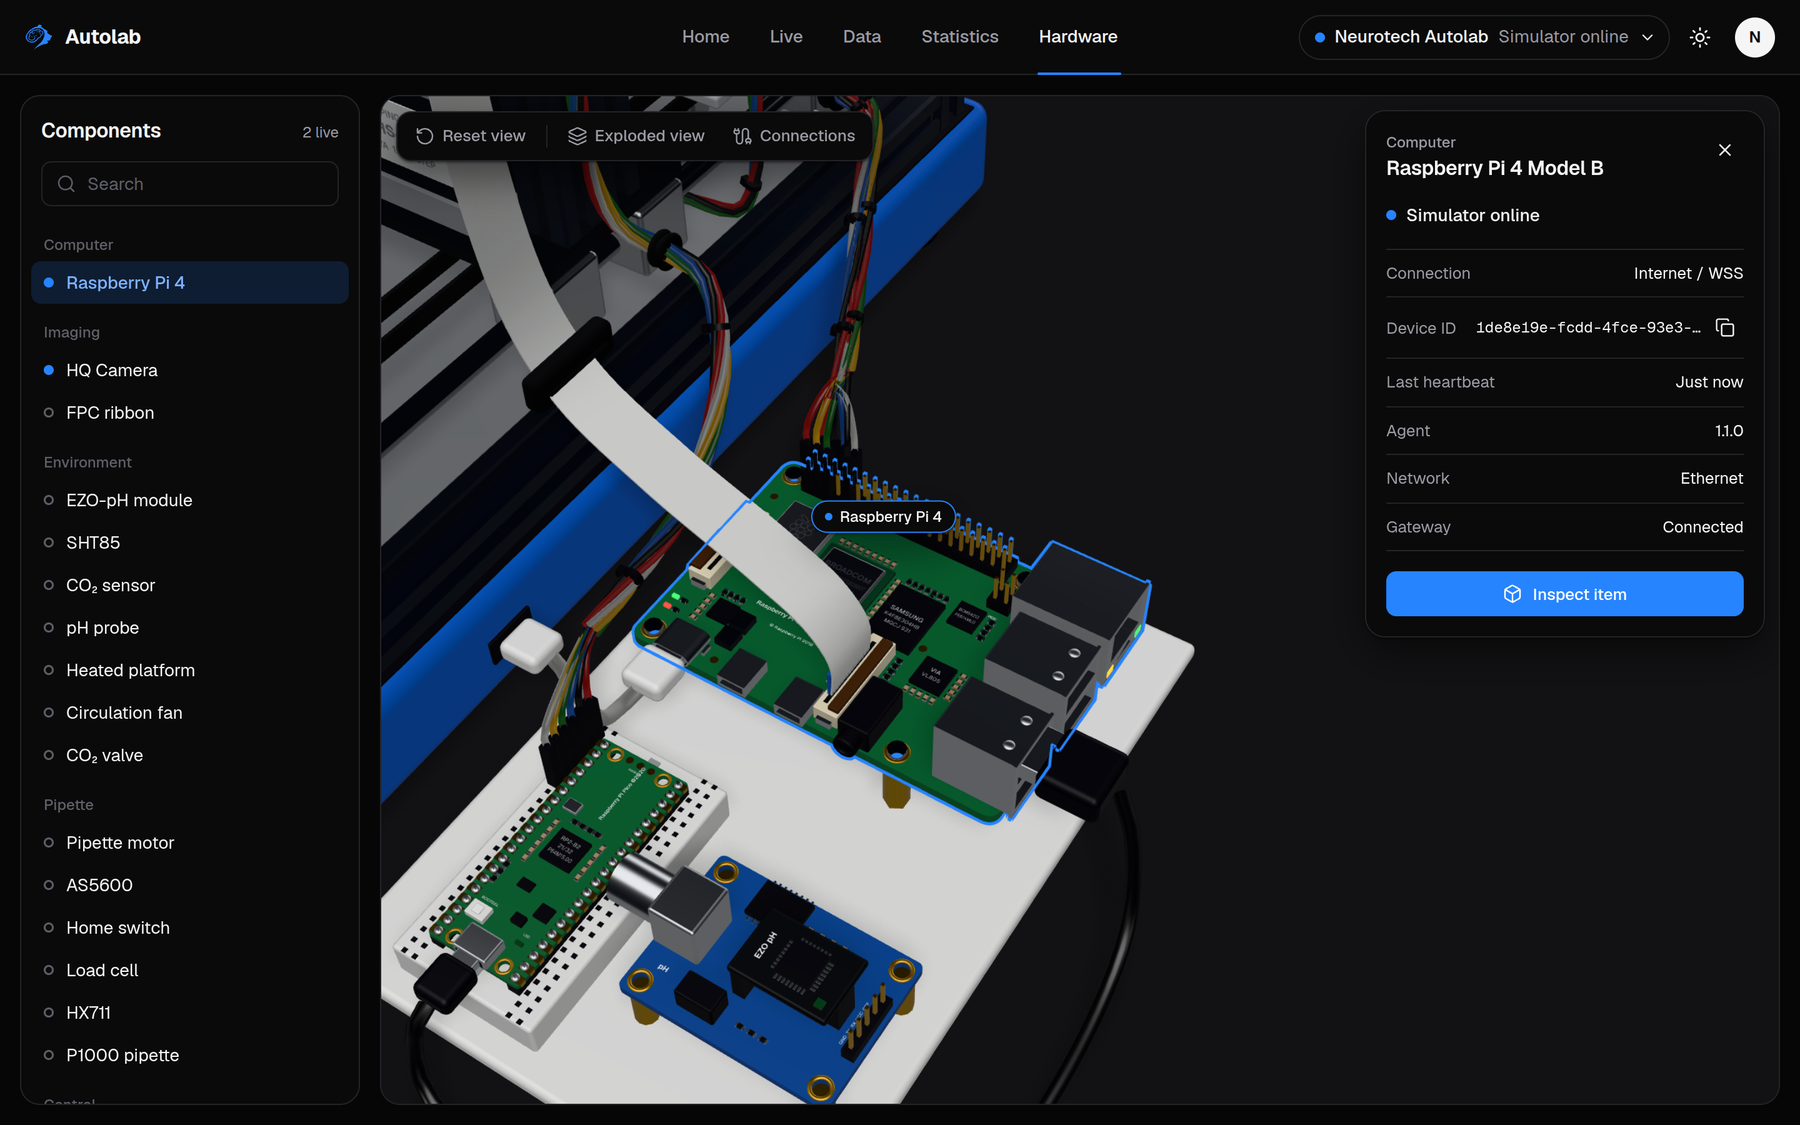
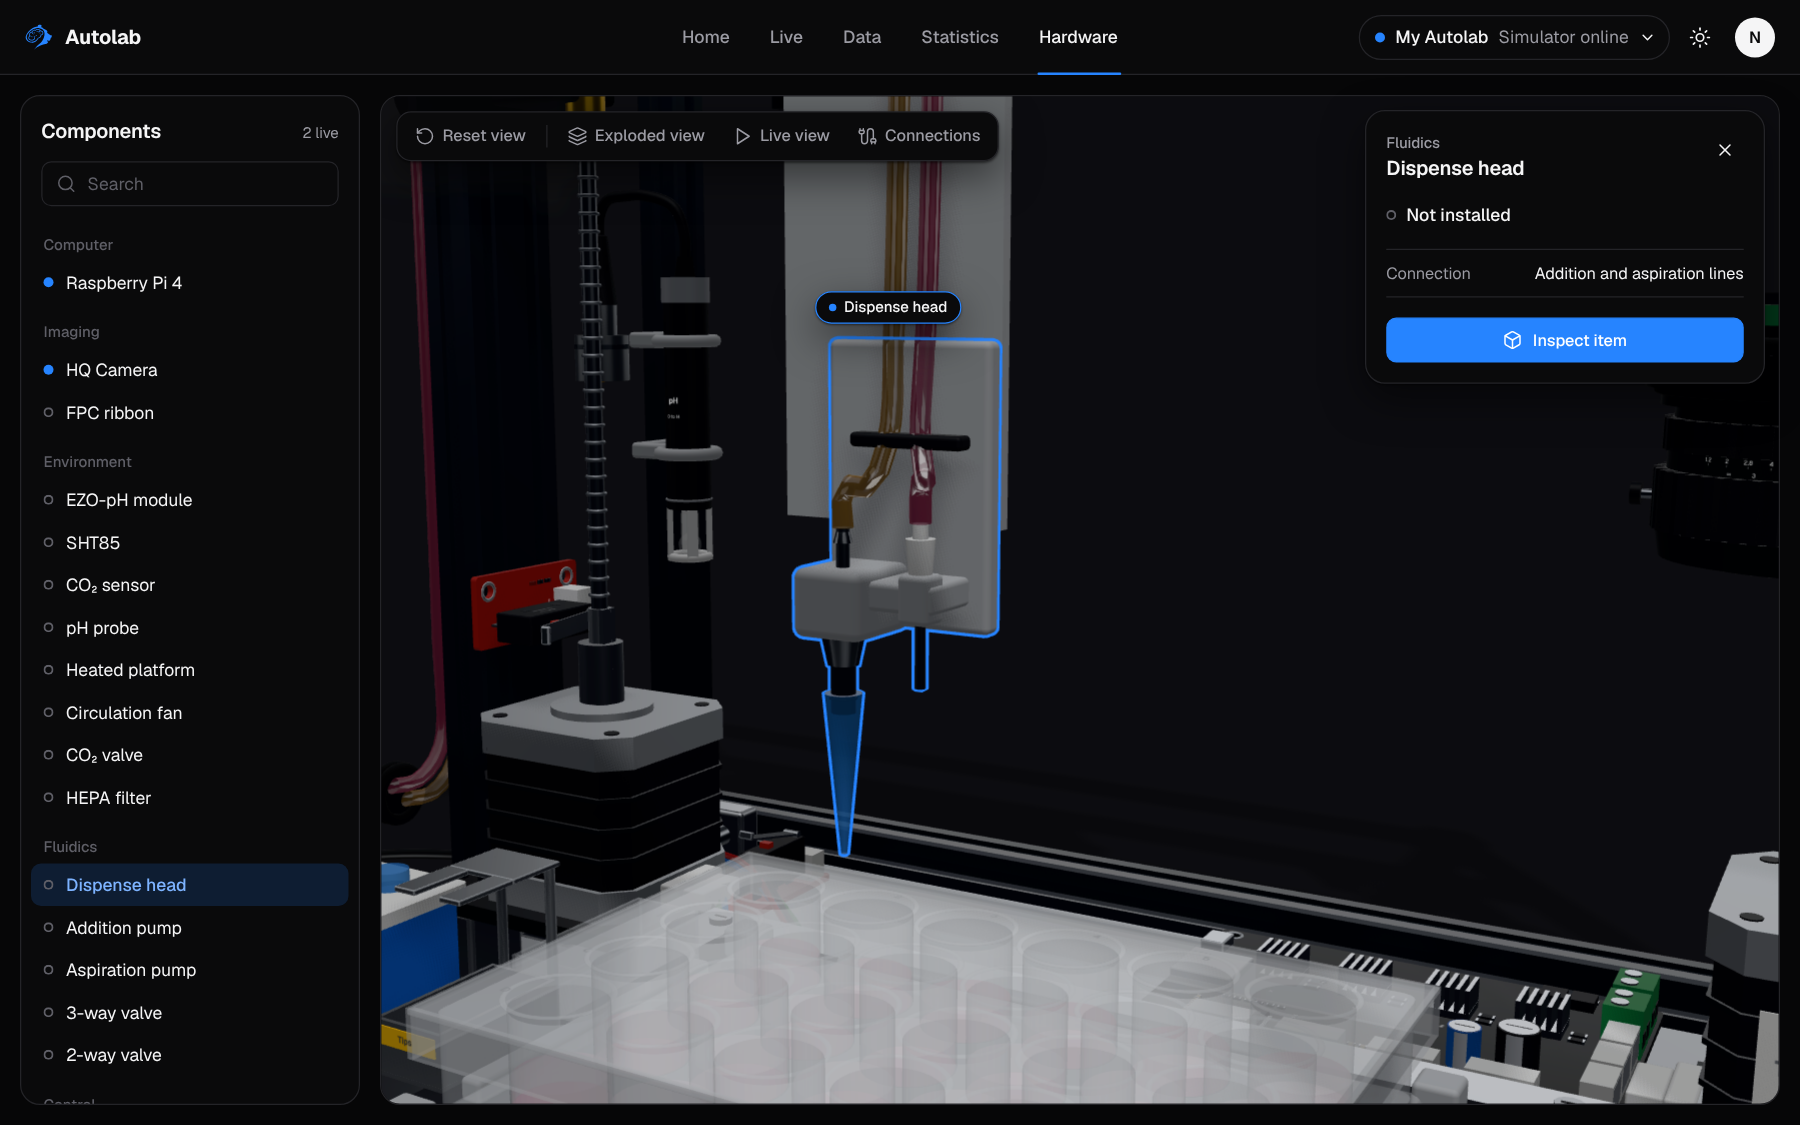
Describe the pump fluidics and enclosure upgrade in the docs
The README, the architecture notes and the 3D model guide described the pipette. They now cover the dispense head, the two pumps and their valves, the HEPA unit, the new demo and where the firmware lives, and link the firmware guide. The Home and Hardware screenshots are retaken with the new machine.

Claude-Session: https://claude.ai/code/session_019cGjL1GYCLbSfZEehKf6yM

diff --git a/docs/digital-twin.md b/docs/digital-twin.md
@@ -8,33 +8,51 @@ The web app draws the whole Autolab in 3D with Three.js, React Three Fiber and D
 - **Hardware** is the full workspace. The machine stands still here so every part can be inspected, until you press **Live view**.
 - The **Connect device** wizard reuses the same models to show where the camera ribbon goes, how the Pi is powered and, at the end, the assembled machine.
 
+## What's on the machine
+
+The model follows the system design sketch, the fluidics sketch and the enclosure plan:
+
+- **The enclosure**: a black V-slot frame on the blue base, closed by clear acrylic panels on the back, left, right and roof and the gasketed front door. A **HEPA fan filter unit** sits in the roof and pushes filtered air down through the chamber in an even, laminar flow, so particles are swept away from the open plate.
+- **The gantry**: the converted Ender-3 motion system, carrying the camera dock and the **dispense head**.
+- **The dispense head** replaces the pipette. Its stainless nose takes a disposable tip for aspiration, and a blunt needle beside it is the end of the addition line. It has no motor or electronics; the pumps do the work.
+- **The fluidics platform**, outside on the left so bleach fumes and motor heat stay out of the chamber, holds what the fluidics sketch calls the combined system:
+  - **Pump 1 (addition)**, a reversible peristaltic pump. Behind it the **3-way valve** connects it to fresh media, cleaner or waste.
+  - **Pump 2 (aspiration)**, the same pump. Behind it the **2-way valve** connects it to waste or cleaner.
+  - The **cleaner** bottle (70% ethanol) and the **waste bottle and bleach trap**, shared by both valves. The waste has a float switch, so the pumps stop before it's full.
+  - The **Pico** and its driver board, which run all of the above.
+- **Inside the chamber**: the heated platform with the 24-well plate, the wash station and the **tip disposal bin** with its stripper, the tip rack, and the **media bottle**, kept at 37 °C, whose line runs out to the 3-way valve.
+- **The Pi platform** on the right with the Pi and the pH board, and the environment sensors and outputs around the chamber.
+
+The fluid lines are coloured by what usually runs in them, like the sketch's key: pink for fresh media, amber for spent media and waste, green for cleaner.
+
 ## Using the Hardware screen
 
 1. Click a part in the model or in the list on the left. The camera flies in close to it, and the rest of the machine stays visible around it.
 2. The panel on the right shows what the part is, how it connects and its live state.
 3. **Inspect item** shows the part on its own, centred, so you can turn it over. **Back to machine** returns to it in place.
-4. **Exploded view** moves the door and side panel out and each part along the way it's mounted. **Live view** plays the Home demo here; press it again to pause, and it turns Exploded view off while it runs. **Connections** draws the links between parts. **Reset view** flies back to the whole machine.
+4. **Exploded view** moves the door, the panels and the roof with its HEPA unit out, and each part along the way it's mounted. **Live view** plays the Home demo here; press it again to pause, and it turns Exploded view off while it runs. **Connections** draws the links between parts. **Reset view** flies back to the whole machine.
 
 Drag to orbit and right drag (or two fingers) to pan. The scroll wheel and trackpad pinch zoom toward the pointer, so whatever is under the cursor stays under it. `/hardware?part=<id>` opens with that part selected, which is how Home links in.
 
 ## What the Home demo does
 
-Home runs a looping media change, the same one the real machine is built for:
+Home runs a looping media change on three wells, the protocol from the fluidics sketch:
 
-1. The tool travels to the tip rack, lowers slowly and presses onto a tip.
-2. It visits three wells, draws off spent media (the tip fills amber) and empties it into the tip chute, then ejects that tip.
-3. It takes a fresh tip, draws warm media from the reservoir (the tip fills pink) and gives each well its share back.
-4. It parks, the camera's LED blinks for a picture, and the loop starts again with other wells.
+1. **Aspiration**, for each well: the head presses onto a fresh tip, lowers it into the well, and the aspiration pump runs with its valve open to waste, so the spent media goes up through the tip (it shows amber) and the well empties. The head lifts away from the plate, slides the nose into the stripper's slot over the disposal bin and lifts, and the tip drops into the bin.
+2. The aspiration pump runs on over the wash station to clear its line (ten seconds on the machine, shortened in the demo).
+3. **Addition**: the 3-way valve opens to media and the addition pump pushes fresh media out of the needle into each well in turn, from just above the plate. A thin pink stream falls into the well and the media bottle goes down.
+4. The addition pump runs back with its valve open to waste, so the line doesn't drip.
+5. The head parks, the camera's LED blinks for a picture, and the loop starts again with other wells.
 
-Z always lifts to a safe height before any X or Y travel. Travel is quick with eased starts and stops, and moves onto a tip or into liquid are slow. Lead screws, pulleys and motor shafts turn with their axes, the drag chain rolls, the cables bend across the moving joints and the circulation fan spins.
+Z always lifts to a safe height before any X or Y travel. Travel is quick with eased starts and stops, and moves onto a tip or into liquid are slow. Lead screws, pulleys and motor shafts turn with their axes, the drag chain rolls, the cables and fluid lines bend across the moving joints, and the circulation and HEPA fans spin. Each pump's rotor turns while it runs, one way to push toward the head and the other to draw back, and each pinch valve's green light shows which port is open.
 
 The demo pauses when the model is scrolled out of view or the tab is hidden. On Home it's off entirely when the system asks for reduced motion. The Hardware screen runs it only when you press **Live view**, and then it plays whatever the motion setting, since you asked for it.
 
 ## Telling the truth about parts
 
-Only the Raspberry Pi and its camera are wired into the software today. Their state comes from the device itself: heartbeat, agent version, network and whether a camera was found. The simulator is labelled as a simulator everywhere. Every other part shows **Not installed** and no readings, rather than made up numbers.
+The Raspberry Pi and its camera always report. Their state comes from the device itself: heartbeat, agent version, network and whether a camera was found. The simulator is labelled as a simulator everywhere. Every other part shows **Not installed** and no readings, rather than made up numbers, until its driver reports it.
 
-When a driver for another part exists, the Pi can report it in its heartbeat and the details panel picks it up with no app changes:
+The drivers for the fluidics, sensors, outputs and gantry are written (see [firmware](firmware.md)) and stay off until the Pi's `.env` turns them on. Then the Pi lists each part that really answered in its heartbeat, or in lab mode its status row, and the details panel picks it up with no app changes:
 
 ```json
 {
@@ -59,28 +77,28 @@ That's an example of the format only. Nothing in the app or the agent sends samp
 
 | Where | What's in it |
 | --- | --- |
-| `src/data/hardware-parts-*.ts` | The parts registry. Each part has an id, a name, what it's for, how it connects, its model, where it sits, its exploded offset, its hit boxes and the camera angle it's framed from. |
-| `src/data/hardware-connections.ts` | The links the Connections overlay draws. |
+| `src/data/hardware-parts-*.ts` | The parts registry, by area: electronics, chamber, fluidics and motion. Each part has an id, a name, what it's for, how it connects, its model, where it sits, its exploded offset, its hit boxes and the camera angle it's framed from. |
+| `src/data/hardware-connections.ts` | The links the Connections overlay draws: wiring and tubing. |
 | `src/components/hardware` | The Hardware screen: the list, the details panel, the toolbar and `MachineView`, the one component every screen embeds. |
 | `src/components/hardware/scene` | The canvas, the scene, each selectable part node, camera framing and the Connections overlay. |
 | `src/components/three` | The shared 3D kit: the stage, lighting and shadows, materials and colours, primitives, camera controls and picking. |
-| `src/components/three/models` | One model per part, with shared board details (chips, headers, connectors), the machine body, labware, and the wiring under `machine/wiring`. |
-| `src/components/three/motion` | The demo. `script.ts` and `cycle.ts` write the loop as a robot program, `timeline.ts` turns a time into a machine pose, and the moving parts read that pose each frame. |
+| `src/components/three/models` | One model per part, with shared board details (chips, headers, connectors), the machine body, labware, the fluidics under `fluidics/`, and the wiring and tubing under `machine/wiring`. |
+| `src/components/three/motion` | The demo. `script.ts` and `cycle.ts` write the loop as a robot program, `timeline.ts` turns a time into a machine pose (axes, pump rotors, open valve ports, liquid levels), and the moving parts read that pose each frame. |
 
-To change where a part sits, edit its registry entry. The model, its hit boxes, the camera framing, the exploded view and the demo's reach all follow from it. To swap a hand built model for a GLB file, keep the model's origin and scale and replace its body.
+To change where a part sits, edit its registry entry. The model, its hit boxes, the camera framing, the exploded view and the demo's reach all follow from it, and so do the ends of its fluid lines. The whole fluidics platform moves with `FLUIDICS` in `machine/layout.ts`. To swap a hand built model for a GLB file, keep the model's origin and scale and replace its body.
 
-Materials live in `materials.ts` and their colours in `material-colors.ts`. The UI uses only the accent blue plus black and white, and the 3D models use real colours: a green Pi on a white platform, an open black frame, a blue powder coated base with the team logo engraved in black, and colour coded wiring.
+Materials live in `materials.ts` and their colours in `material-colors.ts`. The UI uses only the accent blue plus black and white, and the 3D models use real colours: a green Pi on a white platform, a black frame behind clear panels, a blue powder coated base with the team logo engraved in black, colour coded wiring and tinted fluid lines.
 
 ## Performance
 
 - three.js loads only when a 3D view mounts, and never on the server.
 - The canvas renders on demand. It draws while something moves and otherwise sits idle.
 - Shadows are frozen until geometry moves. The demo redraws them five times a second instead of every frame.
-- Repeated pieces (pins, screws, chain links, cable ties) are instanced, and each wire colour is one mesh.
+- Repeated pieces (pins, screws, chain links, cable ties, diffuser holes) are instanced, and each wire and tube colour is one mesh.
 - Only one full machine renders at a time. Home drops its canvas while the Connect device wizard draws its own.
 - On a software renderer (no usable GPU, a virtual machine, headless CI) the view drops shadows and antialiasing and keeps the Home demo still, so the page stays responsive. Set `localStorage["autolab:render"] = "full"` to keep the full look, for example when taking screenshots.
 - When WebGL is missing or lost, the view says so, and the parts list and device actions keep working.
 
 ## Checks
 
-The end to end suite selects parts, inspects one, goes back, searches the list and checks the no-WebGL fallback, all with reduced motion on, so the demo stays still in tests. The Pi's Bluetooth radio pairing, NetworkManager activation and the real CSI camera still need a check on the target Raspberry Pi.
+The end to end suite selects parts, inspects one, goes back, searches the list and checks the no-WebGL fallback, all with reduced motion on, so the demo stays still in tests. The Pi's Bluetooth radio pairing, NetworkManager activation, the real CSI camera and all of the fluidics hardware still need a check on the target machine.

diff --git a/README.md b/README.md
@@ -4,7 +4,7 @@
 
 <h1 align="center">Autolab</h1>
 
-Autolab is a low cost automated cell culture system for neuronal cultures, built by the Neurotech wet lab team. A desktop 3D printer gantry sits inside an insulated enclosure that holds 37 °C, 5% CO₂ and 85 to 95% humidity. The gantry carries a motorized P1000 pipette for media changes and a Raspberry Pi HQ camera for checking the culture, all run by a Raspberry Pi 4.
+Autolab is a low cost automated cell culture system for neuronal cultures, built by the Neurotech wet lab team. A desktop 3D printer gantry sits inside an insulated enclosure that holds 37 °C, 5% CO₂ and 85 to 95% humidity. The gantry carries a dispense head for media changes and a Raspberry Pi HQ camera for checking the culture. Two reversible peristaltic pumps do the liquid handling, a HEPA fan filter unit keeps a laminar downflow over the plate, and it's all run by a Raspberry Pi 4 with a Pico for the fluidics.
 
 This repository is the software. You sign in, connect your Autolab over Bluetooth, and then watch the live camera, take photos, run object detection and browse the results. In lab mode the Pi talks to Supabase itself, so you can watch, take photos and follow along from any phone or laptop, with no computer kept on next to the machine. A 3D model of the whole machine shows every part and what state it's in.
 
@@ -12,7 +12,7 @@ This repository is the software. You sign in, connect your Autolab over Bluetoot
 
 ![Home: the Autolab in 3D running a media change, with device status and headline numbers](docs/screenshots/home.png)
 
-![Hardware: a part focused on the 3D machine, with its details on the right](docs/screenshots/hardware.png)
+![Hardware: the dispense head focused on the 3D machine, with its details on the right](docs/screenshots/hardware.png)
 
 | Live camera | Image library |
 | --- | --- |
@@ -26,7 +26,7 @@ The library and statistics shots use sample images, since object detection can't
 
 ## What it does
 
-- **Home** shows the whole machine in 3D, running a demo media change (picking up tips, drawing and dispensing media, ejecting tips), next to the device status, a few numbers and your latest photos.
+- **Home** shows the whole machine in 3D, running a demo media change (a fresh tip for each well, the aspiration pump drawing spent media to waste, tips stripped into the disposal bin, then the addition pump feeding each well from the needle), next to the device status, a few numbers and your latest photos.
 - **Live** streams the Pi camera at about 4 frames a second, takes full resolution stills and can run object detection on the stream. It can also use your computer's camera or an uploaded photo.
 - **Data** keeps every image with its detections. Filter, search by label, open an image, analyze it, download or delete.
 - **Statistics** charts captures per day and by hour, detected objects, confidence, inference time and sources.
@@ -64,7 +64,8 @@ In lab mode the Pi signs in to Supabase as its own anonymous login, which its ow
 | --- | --- | --- |
 | `apps/web` | The web app. Routes in `app/`, everything else in `src/` by feature | Vercel or any Node host |
 | `services/gateway` | The WebSocket and HTTP gateway | Any always-on host |
-| `devices/raspberry-pi` | The camera agent and the Bluetooth setup service | Raspberry Pi 4 |
+| `devices/raspberry-pi` | The camera agent, the Bluetooth setup service and the hardware drivers | Raspberry Pi 4 |
+| `devices/pico` | The fluidics firmware: pumps, pinch valves, HEPA fan and waste float switch | Raspberry Pi Pico |
 | `workers/ml` | Optional worker that saves analyses in cloud mode | Your computer |
 | `supabase/migrations` | Tables, security rules and the storage bucket | Supabase |
 | `supabase/tests` | Checks for the security rules on a plain Postgres | CI |
@@ -112,7 +113,7 @@ It prints a Device ID. In the app, click **Connect device**, go through the step
 
 ### Lab mode
 
-[docs/lab-mode.md](docs/lab-mode.md) goes from an empty Supabase project to a Pi set up over Bluetooth and other devices following along. In short: run both migrations in Supabase and turn on anonymous sign ins, set `NEXT_PUBLIC_AUTOLAB_MODE=lab` and the Supabase URL and anon key on the Vercel site (https://auto-lab-web.vercel.app), install the Pi with `devices/raspberry-pi/install.sh`, then open the site in Chrome and click **Connect device**.
+[docs/lab-mode.md](docs/lab-mode.md) goes from an empty Supabase project to a Pi set up over Bluetooth and other devices following along. In short: run the migrations in Supabase and turn on anonymous sign ins, set `NEXT_PUBLIC_AUTOLAB_MODE=lab` and the Supabase URL and anon key on the Vercel site (https://auto-lab-web.vercel.app), install the Pi with `devices/raspberry-pi/install.sh`, then open the site in Chrome and click **Connect device**.
 
 ### A real Raspberry Pi
 
@@ -184,13 +185,14 @@ npx supabase start
 .venv/bin/python tests/run_lab_e2e.py
 ```
 
-The real CSI camera, Bluetooth radio pairing and a hosted Supabase project still need a check on real hardware and accounts.
+The Pico firmware and the hardware drivers are tested against fake hardware: `tests/test_pico_firmware.py` runs the firmware's own logic under CPython. The real CSI camera, Bluetooth radio pairing, the pumps, valves, sensors and gantry, and a hosted Supabase project still need a check on real hardware and accounts.
 
 ## More
 
 - [Architecture and limits](docs/architecture.md)
 - [Wire protocol](docs/protocol.md)
 - [The 3D model](docs/digital-twin.md)
+- [Firmware and hardware drivers](docs/firmware.md)
 - [Browser object detection](docs/browser-detection.md)
 - [Lab mode](docs/lab-mode.md)
 - [Prepare a Raspberry Pi, step by step](docs/pi-setup.md)

diff --git a/docs/architecture.md b/docs/architecture.md
@@ -45,13 +45,15 @@ In lab mode there is no gateway. The Pi signs in to Supabase as its own anonymou
 
 `services/gateway/autolab_gateway` is split by job: `config`, `protocol` (the binary envelope), `peers` and `rooms` (connections and their queues), `limits`, `sweeper` (timeouts), `http_routes`, `socket_routes` with one module per role under `handlers/`, and `cloud` (the Supabase adapter, the only code that holds the service key). `main.py` stays a thin entry point, so `uvicorn main:app` works as before.
 
-`devices/raspberry-pi/autolab_agent` holds the camera agent (`cli`, `agent`, `link`, `preview`, `commands`, `camera`, `telemetry`, `credentials`, `registration`) and the optional Bluetooth setup service under `provisioning/`. `python -m autolab_agent.main` and `python -m autolab_agent.provisioning` are unchanged.
+`devices/raspberry-pi/autolab_agent` holds the camera agent (`cli`, `agent`, `link`, `preview`, `commands`, `camera`, `telemetry`, `credentials`, `registration`), the optional Bluetooth setup service under `provisioning/`, and the hardware drivers under `hardware/`: the Pico client, the I²C sensors and GPIO outputs, the Marlin client and the media change routines. `python -m autolab_agent.main` and `python -m autolab_agent.provisioning` are unchanged.
+
+`devices/pico` is the Pico's MicroPython firmware for the fluidics: both pump steppers, the pinch valves, the HEPA fan and the waste float switch, behind a line based JSON protocol over USB serial with its own safety rules. See [firmware](firmware.md).
 
 `workers/ml/autolab_worker` is the optional ML worker for cloud mode (`cli`, `worker`, `auth`, `detector`), started with `python main.py`.
 
 ## Scope
 
-Today the live hardware is the Pi and its camera. The 3D model shows the whole machine from the design (gantry, pipette tool, sensors, environment control), and every part that has no driver yet says "Not installed" instead of showing made up readings. Motion, pipetting and environment control need their own protocol and safety design before they're wired in. The pipetting animation on Home is a demo drawn in the browser; it sends nothing to the machine. The real camera uses whichever sensor Picamera2 finds; check sensor support and memory use on the 1 GB Pi.
+Today the live hardware is the Pi and its camera. The 3D model shows the whole machine from the design (gantry, dispense head and pump fluidics, HEPA unit, sensors, environment control), and every part that hasn't reported says "Not installed" instead of showing made up readings. The Pico firmware and the Pi's drivers for the fluidics, sensors, outputs and gantry are written and tested against fakes, and stay off until `.env` turns them on; none of it has run on the real hardware yet (see [firmware](firmware.md)). The media change animation on Home is a demo drawn in the browser; it sends nothing to the machine. The real camera uses whichever sensor Picamera2 finds; check sensor support and memory use on the 1 GB Pi.
 
 The object detector is a general COCO model. It proves the capture, analyze and review loop, and it does not measure cells.
 
